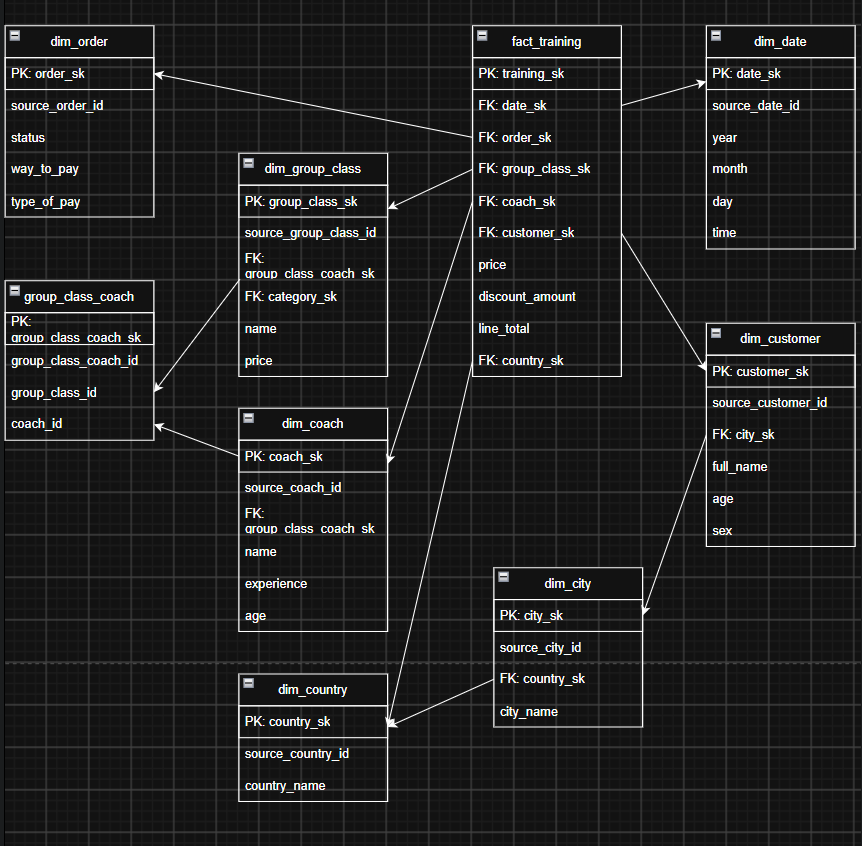
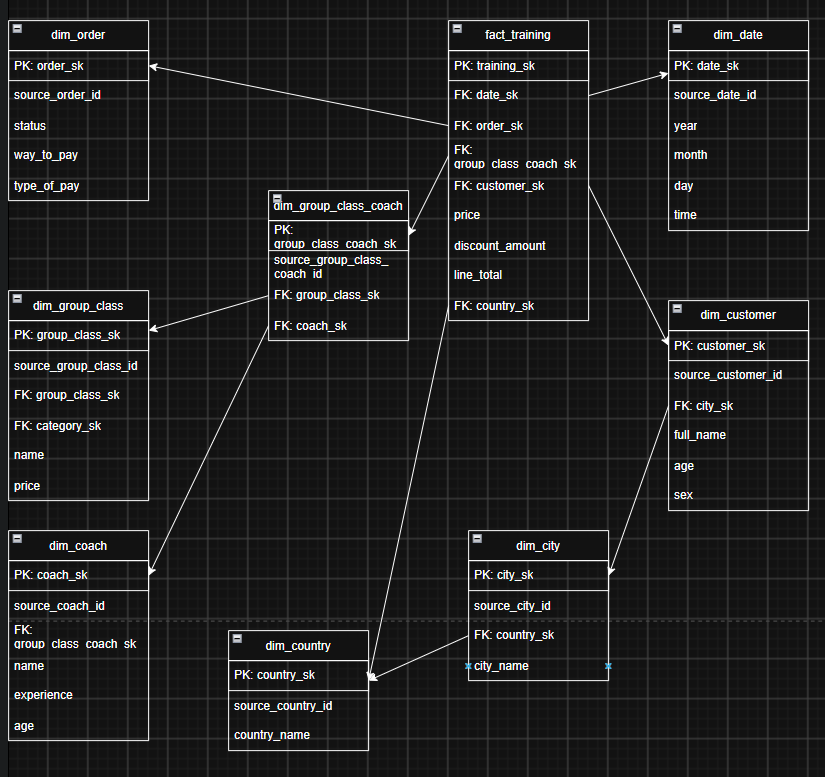
homework 5 after fix

diff --git a/lesson5/Doc_for_lesson5.md b/lesson5/Doc_for_lesson5.md
@@ -2,13 +2,11 @@
 In: заявка на тренировку. 
 Out: проведённая тренировка, получение оплаты за неё.
 
-2.	Уровень детализации (grain): одна строка факта = одна конкретная тренировка в один конкретный день у конкретного тренера в конкретном городе.
+2.	Уровень детализации (grain): одна строка факта = одна оплаченная тренировка для одного клиента в один конкретный день в рамках определённого заказа.
 
 3.	Таблица измерений (Dimensions):
 dim_date
 date_sk, source_date_id, год, месяц, день, время. 
-dim_group_class
-group_class_sk, source_group_class_id, название, цена. 
 dim_customer
 customer_sk, source_customer_id, город, имя, возраст, пол. 
 dim_order
@@ -24,15 +22,15 @@ coach_sk, source_coach_id, имя, опыт, возраст.
 
 -- 1.
 
-CREATE TABLE Dates (
-    date_id SERIAL PRIMARY KEY,    
+CREATE TABLE dim_date (
+    date_sk SERIAL PRIMARY KEY,    
     year VARCHAR(50),    
     month VARCHAR(50),    
     day VARCHAR(50),    
     time TIME 
 );
 
-INSERT INTO Dates (year, month, day, time) VALUES 
+INSERT INTO dim_date (year, month, day, time) VALUES 
 ('2026', 'may', 'Monday', '14:00:00'), 
 ('2026', 'may', 'Tuesday', '14:00:00'), 
 ('2026', 'may', 'Wednesday', '14:00:00'), 
@@ -41,96 +39,103 @@ INSERT INTO Dates (year, month, day, time) VALUES
 ('2026', 'may', 'Saturday', '14:00:00'), 
 ('2026', 'may', 'Sunday', '14:00:00'); 
 
-CREATE TABLE Coaches (
-    coach_id SERIAL PRIMARY KEY,
+CREATE TABLE dim_coach (
+    coach_sk SERIAL PRIMARY KEY,
     first_name VARCHAR(50),    
     last_name VARCHAR(50),    
     age INT,    
     experience INT
 );
 
-INSERT INTO Coaches (first_name, last_name, age, experience) VALUES 
+
+
+INSERT INTO dim_coach (first_name, last_name, age, experience) VALUES 
 ('Ivan', 'Ivanov', 31, 5), 
 ('Petr', 'Petrov', 38, 9); 
 
-CREATE TABLE Orderss (
-    order_id SERIAL PRIMARY KEY,    
+
+CREATE TABLE dim_order (
+    order_sk SERIAL PRIMARY KEY,    
     status VARCHAR(50),    
     way_of_pay VARCHAR(50),    
     type_of_pay VARCHAR(50)   
     );
 
-INSERT INTO Orderss (status, way_of_pay, type_of_pay) VALUES 
+INSERT INTO dim_order (status, way_of_pay, type_of_pay) VALUES 
 ('Pending', 'post', 'Cash'), 
 ('Reject', 'prev', 'Cart'); 
 
-CREATE TABLE Countries (
-    country_id SERIAL PRIMARY KEY,    
+
+CREATE TABLE dim_country (
+    country_sk SERIAL PRIMARY KEY,    
     country_name VARCHAR(50)
     );
 
-INSERT INTO Countries (country_name) VALUES 
+INSERT INTO dim_country (country_name) VALUES 
 ('USA');
 
-CREATE TABLE Categories (
-    category_id SERIAL PRIMARY KEY,    
+CREATE TABLE dim_category (
+    category_sk SERIAL PRIMARY KEY,    
     stage VARCHAR(50)       
 );
 
-INSERT INTO Categories (stage) VALUES 
+INSERT INTO dim_category (stage) VALUES 
 ('Beginer'), 
 ('Hight'), 
 ('Middle'); 
 
--- 2.
 
-CREATE TABLE Cities (
-    city_id SERIAL PRIMARY KEY,
-    country_id INT REFERENCES Countries (country_id),
+-- 2.
+CREATE TABLE dim_city (
+    city_sk SERIAL PRIMARY KEY,
+    country_sk INT REFERENCES dim_country (country_sk),
     city_name VARCHAR(50)    
 );
 
-INSERT INTO Cities (country_id, city_name) VALUES 
+INSERT INTO dim_city (country_sk, city_name) VALUES 
 (1, 'NY'), 
 (1, 'LA'); 
 
-CREATE TABLE Class_groups (
-    class_group_id SERIAL PRIMARY KEY,    
-    category_id INT REFERENCES Categories(category_id),    
+
+CREATE TABLE dim_class_group (
+    class_group_sk SERIAL PRIMARY KEY,    
+    category_sk INT REFERENCES dim_category(category_sk),    
     name VARCHAR(50),    
     price INT    
 );
 
-INSERT INTO Class_groups (category_id, name, price) VALUES 
+INSERT INTO dim_class_group (category_sk, name, price) VALUES 
 (1, 'Yoga', 30), 
 (2, 'Pilates', 30); 
 
+
 -- 3.
 
-CREATE TABLE Class_groups_coach (    
-class_groups_coach_id SERIAL PRIMARY KEY,
-       class_group_id INT REFERENCES class_groups(class_group_id),
-       coach_id INT REFERENCES Coaches(coach_id)
+CREATE TABLE dim_class_group_coach (    
+class_group_coach_sk SERIAL PRIMARY KEY,
+       class_group_sk INT REFERENCES dim_class_group(class_group_sk),
+       coach_sk INT REFERENCES dim_coach(coach_sk)
 );
 
 
 
-INSERT INTO Class_groups_coach (class_group_id, coach_id) VALUES 
+INSERT INTO dim_class_group_coach (class_group_sk, coach_sk) VALUES 
 (1, 1), 
 (1, 2), 
 (2, 2); 
 
 
 
-CREATE TABLE Customerss (
-    customer_id SERIAL PRIMARY KEY,
-    city_id INT REFERENCES Cities(city_id),
+
+CREATE TABLE dim_customer (
+    customer_sk SERIAL PRIMARY KEY,
+    city_sk INT REFERENCES dim_city(city_sk),
     full_name VARCHAR(50),    
     age INT,    
     sex VARCHAR(50) 
 );
 
-INSERT INTO Customerss (city_id, full_name, age, sex) VALUES 
+INSERT INTO dim_customer (city_sk, full_name, age, sex) VALUES 
 (1, 'Alex Alexeev', 35, 'M'), 
 (2, 'Sveta Svetikova', 32, 'F'), 
 (2, 'Sid Sidorov', 22, 'M'); 
@@ -139,24 +144,23 @@ INSERT INTO Customerss (city_id, full_name, age, sex) VALUES
 -- 4.
 
 CREATE TABLE Trainings (
-training_id SERIAL PRIMARY KEY,
-date_id INT REFERENCES Dates(date_id),
-order_id INT REFERENCES Orderss(order_id),
-class_group_id INT REFERENCES Class_groups(class_group_id),
-coach_id INT REFERENCES Coaches(coach_id),
-customer_id INT REFERENCES Customerss(customer_id),    
-country_id INT REFERENCES Countries(country_id),    
+training_sk SERIAL PRIMARY KEY,
+date_sk INT REFERENCES dim_date(date_sk),
+order_sk INT REFERENCES dim_order(order_sk),
+class_group_coach_sk INT REFERENCES dim_class_group_coach(class_group_coach_sk),
+customer_sk INT REFERENCES dim_customer(customer_sk),    
+country_sk INT REFERENCES dim_country(country_sk),    
 price DECIMAL(10, 2), 
 discount_amount INT,   
 line_total DECIMAL(10, 2) 
 );
 
-INSERT INTO Trainings (date_id, order_id, class_group_id, coach_id, customer_id, country_id, price, discount_amount, line_total) VALUES 
-(1, 1, 2, 1, 1, 1, 30.00, 0, 30.00), 
-(3, 2, 1, 1, 2, 1, 30.00, 10, 27.00), 
-(5, 1, 2, 2, 3, 1, 30.00, 0, 30.00), 
-(6, 2, 1, 1, 2, 1, 30.00, 20, 24.00), 
-(7, 2, 2, 1, 3, 1, 30.00, 10, 27.00); 
+INSERT INTO Trainings (date_sk, order_sk, class_group_coach_sk, customer_sk, country_sk, price, discount_amount, line_total) VALUES 
+(1, 1, 2, 1, 1, 30.00, 0, 30.00), 
+(3, 2, 1, 2, 1, 30.00, 10, 27.00), 
+(5, 1, 2, 3, 1, 30.00, 0, 30.00), 
+(6, 2, 1, 2, 1, 30.00, 20, 24.00), 
+(7, 2, 2, 1, 1, 30.00, 10, 27.00); 
 
 7. Примеров аналитических запросов 
 
@@ -164,10 +168,10 @@ INSERT INTO Trainings (date_id, order_id, class_group_id, coach_id, customer_id,
 WITH DayStats AS (
     SELECT 
         d.day AS day_name,
-        COUNT(t.training_id) AS total_trainings,
-        RANK() OVER (ORDER BY COUNT(t.training_id) ASC) AS rank_num
-    FROM Dates d
-    LEFT JOIN Trainings t ON d.date_id = t.date_id
+        COUNT(t.training_sk) AS total_trainings,
+        RANK() OVER (ORDER BY COUNT(t.training_sk) ASC) AS rank_num
+    FROM dim_date d
+    LEFT JOIN Trainings t ON d.date_sk = t.date_sk
     GROUP BY d.day
 )
 SELECT 
@@ -180,17 +184,18 @@ WHERE rank_num = 1;
 
 WITH CoachStats AS (
     SELECT 
-        c.coach_id,
+        c.coach_sk,
         c.first_name,
         c.last_name,
-        COUNT(t.training_id) AS total_trainings,
-        DENSE_RANK() OVER (ORDER BY COUNT(t.training_id) DESC) AS rank_num
-    FROM Coaches c
-    LEFT JOIN Trainings t ON c.coach_id = t.coach_id
-    GROUP BY c.coach_id, c.first_name, c.last_name
+        COUNT(t.training_sk) AS total_trainings,
+        DENSE_RANK() OVER (ORDER BY COUNT(t.training_sk) DESC) AS rank_num
+    FROM dim_class_group_coach cgc
+    LEFT JOIN Trainings t ON t.class_group_coach_sk = cgc.class_group_coach_sk
+    LEFT JOIN dim_coach c ON c.coach_sk = cgc.coach_sk
+    GROUP BY c.coach_sk, c.first_name, c.last_name
 )
 SELECT 
-    coach_id,
+    coach_sk,
     first_name,
     last_name,
     total_trainings
@@ -201,14 +206,10 @@ WHERE rank_num = 1;
 
 SELECT 
     g.name AS class_name,
-    COUNT(t.training_id) AS total_visits,
-    DENSE_RANK() OVER (ORDER BY COUNT(t.training_id) DESC) AS popularity_rank
-FROM Class_groups g
-LEFT JOIN Trainings t ON g.class_group_id = t.class_group_id
-GROUP BY g.class_group_id, g.name
+    COUNT(t.training_sk) AS total_visits,
+    DENSE_RANK() OVER (ORDER BY COUNT(t.training_sk) DESC) AS popularity_rank
+FROM dim_class_group g
+LEFT JOIN dim_class_group_coach cgc ON cgc.class_group_sk = g.class_group_sk
+LEFT JOIN Trainings t ON cgc.class_group_coach_sk = t. class_group_coach_sk
+GROUP BY g.class_group_sk, g.name
 ORDER BY total_visits DESC;
-
-
-                                                                                                                                 
-
-
